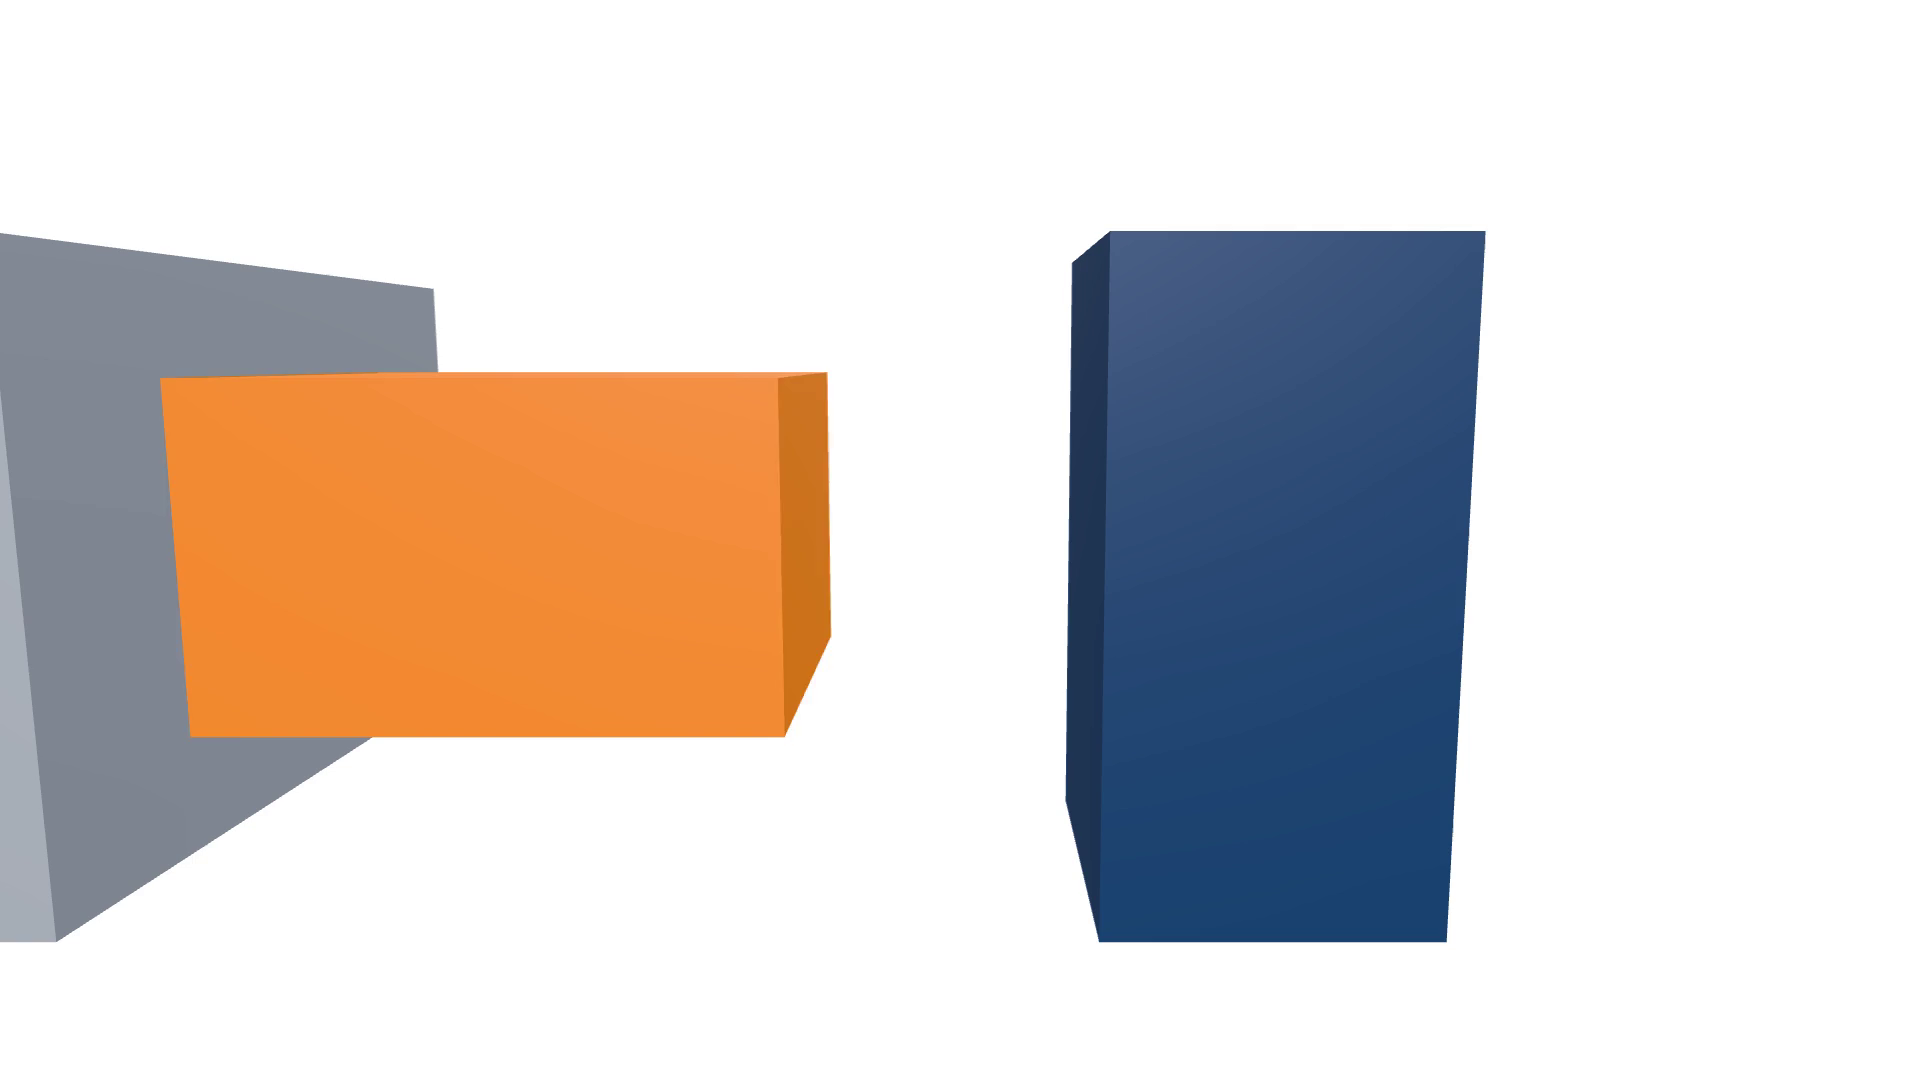
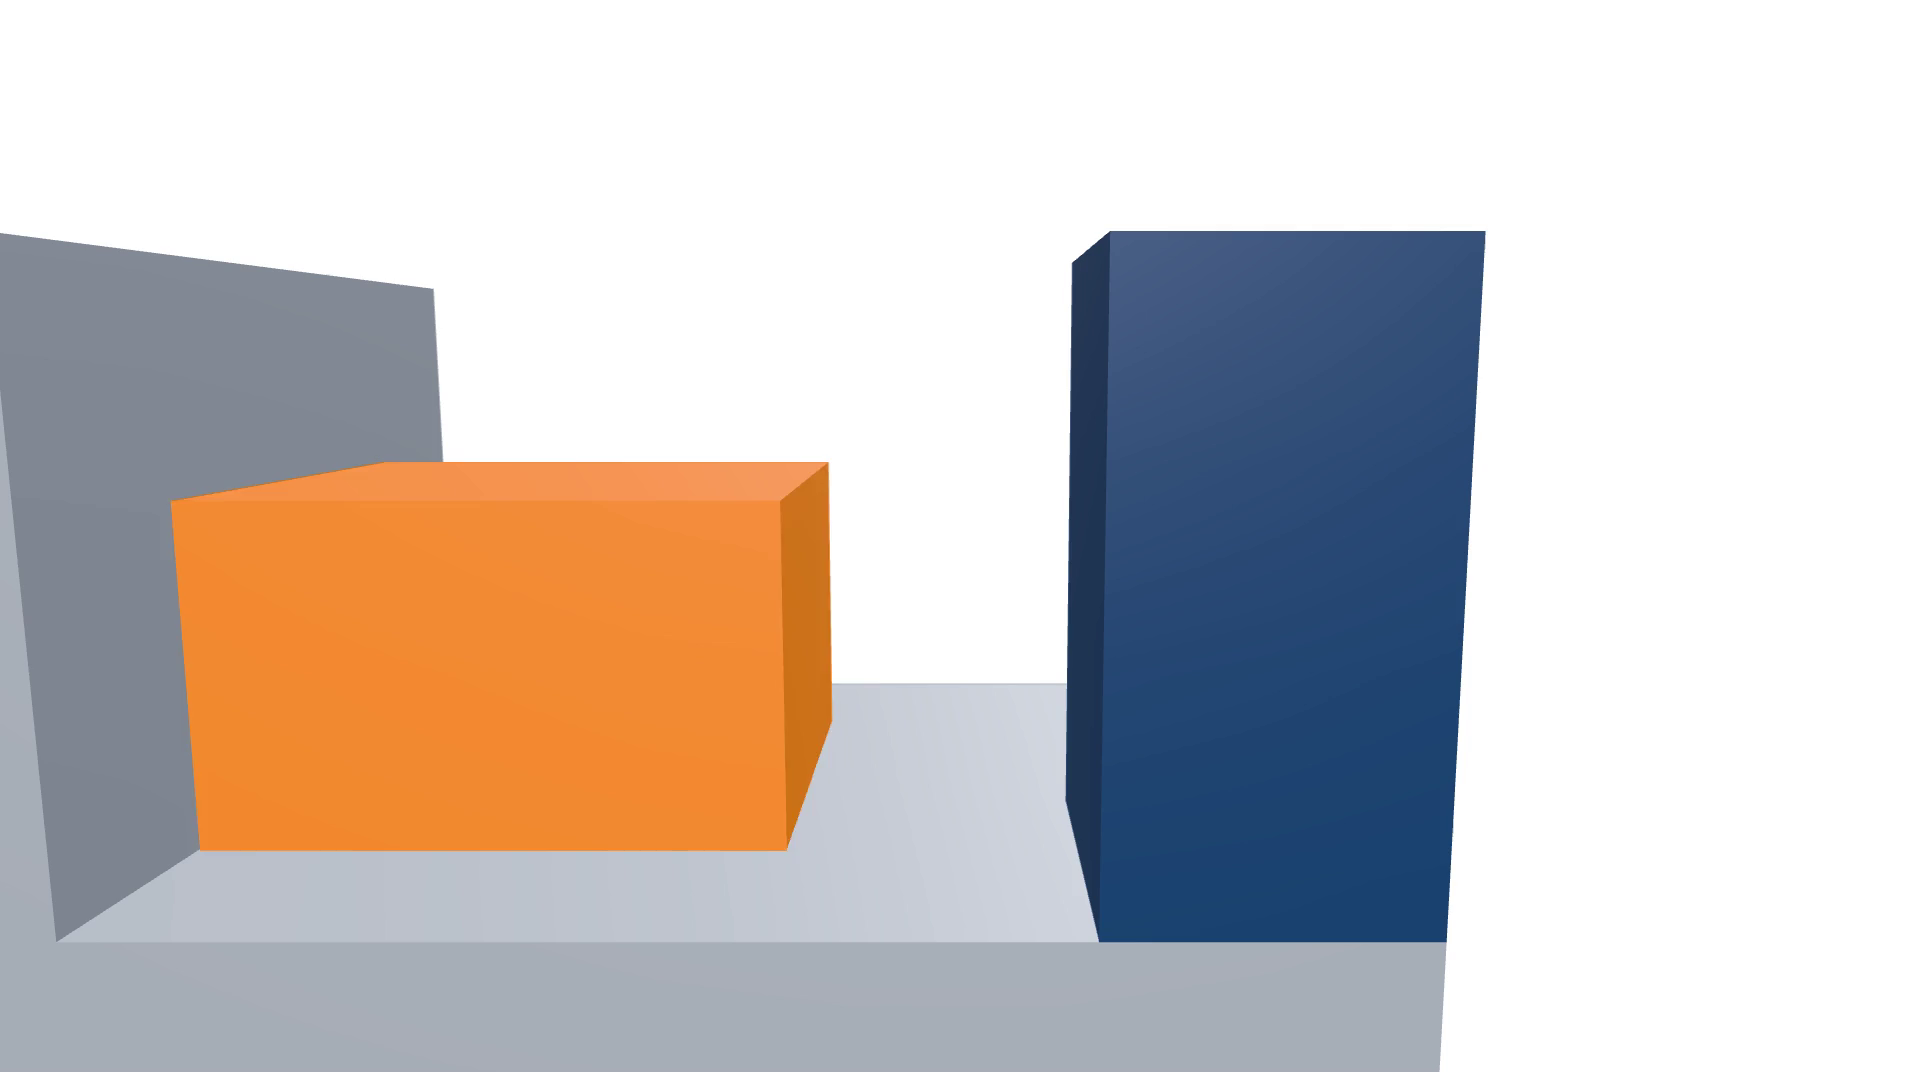
docs(demo): joint-range-suggestion capture shows the rail bed and the fastened wall

Changed region(s): [[0.0, 0.6111, 0.75, 1.0], [0.0625, 0.3361, 0.4375, 0.4889]]

diff --git a/docs/demos/joint-range-suggestion/README.md b/docs/demos/joint-range-suggestion/README.md
@@ -2,7 +2,8 @@
 
 `joint-range-suggestion.mp4` is a local kinematic replay of
 `examples/kinematic/joint-range-suggestion-motion.kcad.ts`. The orange
-carriage slides along the grey rail toward the blue wall. The script calls
+carriage slides on the bed of the grey rail toward the blue wall. The wall
+stands on the same bed and is fastened to it. The script calls
 `kinematic.suggestJointRanges` once, at capture time, and the timeline ends
 at the reported stop. Nothing writes that stop back onto the mate.
 
@@ -26,10 +27,11 @@ deployed page.
 Inspected 1920×1080 frames from the MP4 (24 frames, 12 fps, 2.000 s, h264):
 
 - `frames/pose-01.png` — start, slide 0.1. The orange carriage sits on the
-  grey rail with a wide gap to the blue wall.
+  grey bed against the rail end block, with a wide gap to the blue wall. The
+  wall stands on the bed.
 - `frames/pose-02.png` — middle of the timeline. The whole carriage has moved
-  toward the wall: its rear face has left the rail and a gap to the wall
-  remains.
+  toward the wall: its rear face has left the rail end block, it is still on
+  the bed, and a gap to the wall remains.
 - `frames/pose-03.png` — last frame, slide at the reported stop. The carriage
   has the same length as in the first frame. Its rear face is clear of the
   rail and its front face is short of the wall. A hairline of background shows between the
@@ -55,7 +57,7 @@ Capture on 2026-11-20 used the headless player at `dist/headless-player`
 `PW_CDP_URL` points at a closed port so the CLI starts its own Chromium.
 Camera: `setCameraTarget(36, 12, 10)`, `setCameraDistance(48)`, CLI pose
 `0,8`, `--lock-frame`, backdrop white. Timeline frames are 1920×1080.
-Wall time of that animate command was 344.69 s on a loaded machine.
+Wall time of that animate command was 204.30 s on a loaded machine.
 
 ## Recapture on 2026-11-20
 
@@ -66,5 +68,9 @@ probe scene in the model, and the capture drew that scene too. The query now
 removes its probe scene. The script, the camera and the reported stop are
 unchanged. In the new frames one carriage moves, and the rail is visible
 behind it at the middle and last poses.
+
+The same day the example got a bed on the rail part and a fastened mate from
+the rail to the wall, so that `evaluate_script` reports `mechanism: real`.
+The frames here show that geometry. The x layout and the stop are the same.
 
 Settings are also in `capture-settings.json`.

diff --git a/CHANGELOG.md b/CHANGELOG.md
@@ -1,5 +1,13 @@
 # Unreleased
 
+- `examples/kinematic/joint-range-suggestion.kcad.ts` and
+  `joint-range-suggestion-motion.kcad.ts` now pass `evaluate_script` with
+  `ok: true` and `mechanism: real`; before, each returned
+  `mechanism.orphan-part` because the wall that stops the carriage had no
+  mate. The rail has a bed, the wall stands on the bed and is fastened to it
+  at the shared face, and the carriage slides on the bed. The suggested stop
+  is unchanged: the clear side of 9.7 mm, pair `carriage` / `wall`.
+
 - A script that calls `kinematic.suggestJointRanges`, `checkSweptCollision`,
   `checkStaticHold` or `motionLoad` no longer gets a second copy of every
   assembly part in its model. Each query lowered a probe scene and left that
